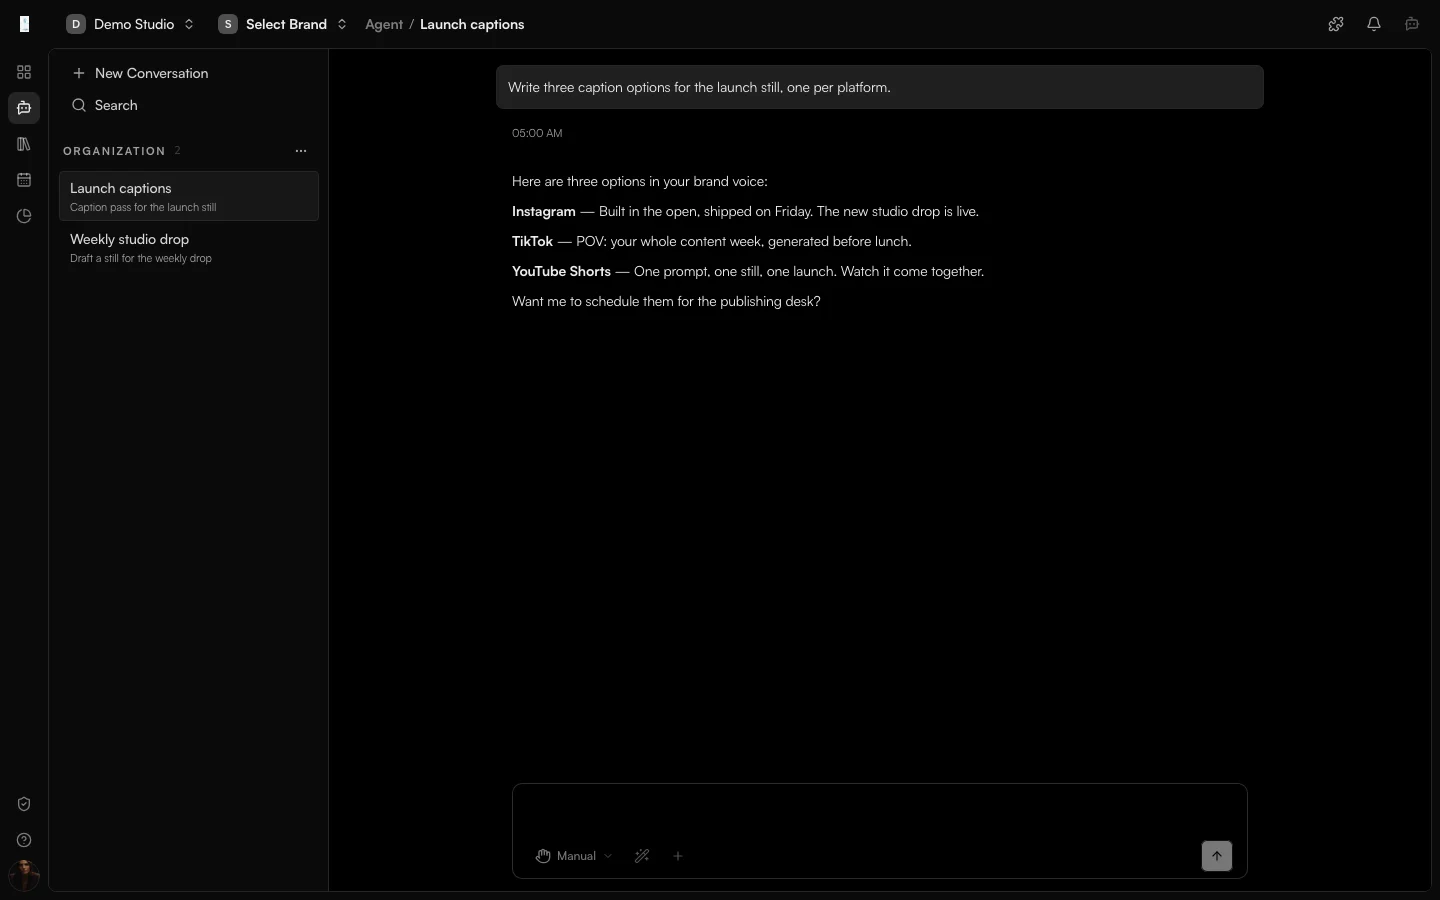
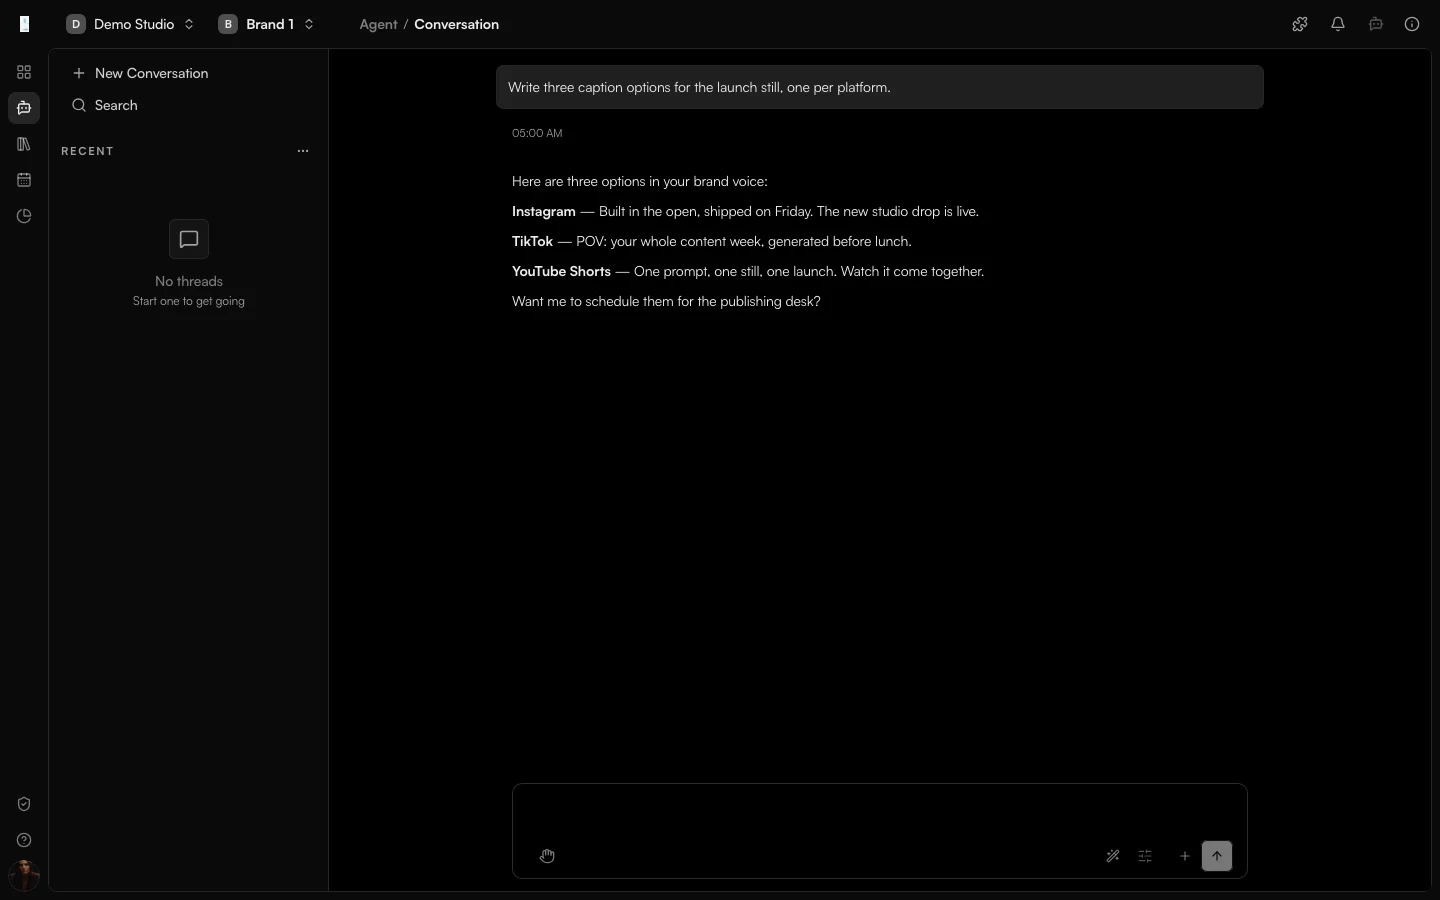
fix(website): re-capture editor, discovery and agent product screenshots (#8398)
<!-- claude-projects-attribution: {"github_login":"VincentShipsIt"} -->
_Requested by **Vincent** · [project
thread](https://claude.ai/code/project/chan_018upQtv1MGTSmavHPY7wtuR?thread=cmsg_018upQtv1MGTSmavHPY7wtuR383Q9iTWz9ahuqz1VwoFjP)_

## What

Three product-page screenshots from #8229 showed empty or odd states.
They are re-captured from the mocked Playwright capture (demo data only,
no real login):

- **Editor:** was "0 projects"; now shows 3 recent projects and an "All
projects 4" list, footer "4 projects". The cause was missing pagination
links in the project-list mock.
- **Discovery:** was "Source health … not recorded"; now shows
"Collection recorded" with healthy TikTok, Instagram and YouTube chips
(new `/corpus/health` mock).
- **Agent:** was "Select Brand"; now has a brand selected and a short
caption conversation. The capture loads the brand-scoped
`/agent/readme-thread-2` route.

Only `editor.webp`, `discovery.webp`, `agent.webp` and the capture spec
changed. The other 10 frames are untouched.

## Known blemish

The Agent sidebar "Recent" list still says "No threads". Cosmetic, not
chased.

## Finish condition and evidence

- Each of the three images was viewed after capture (1440x900 WebP): the
three old states are gone.
- `apps/website/packages/data/app-products.data.test.ts` passes (10 of
10, run with `--config ../vitest.config.mts`).
- The capture run passed on the Mac Studio.

Closes the screenshot items in #8343.
[…]

diff --git a/playwright/e2e/readme/capture-readme-assets.spec.ts b/playwright/e2e/readme/capture-readme-assets.spec.ts
@@ -212,7 +212,7 @@ const WEBSITE_PRODUCT_TARGETS: CaptureTarget[] = [
   { fileName: 'messages.png', path: brandPath('/messages') },
   {
     fileName: 'agent.png',
-    path: orgPath('/agent/readme-thread-2'),
+    path: brandPath('/agent/readme-thread-2'),
     prepare: async (page: Page) => {
       // The mocked API has no realtime socket; hide its connection banner.
       await page.evaluate(() => {
@@ -670,9 +670,14 @@ async function fulfillReadmeApi(route: Route, url: string): Promise<void> {
 function jsonApiCollection(
   type: string,
   items: Array<Record<string, unknown> & { id: string }>,
+  { hasPagination = false }: { hasPagination?: boolean } = {},
 ): Record<string, unknown> {
   return {
     data: items.map((item) => ({ attributes: item, id: item.id, type })),
+    // Paged lists read their footer total from the pagination links.
+    ...(hasPagination
+      ? { links: { pagination: { page: 1, pages: 1, total: items.length } } }
+      : {}),
     meta: { page: 1, pageSize: items.length, totalCount: items.length },
   };
 }
@@ -1153,8 +1158,44 @@ async function fulfillSurfaceApi(route: Route, url: string): Promise<boolean> {
   if (method === 'GET' && /\/editor-projects$/.test(pathname)) {
     await fulfillJson(
       route,
-      jsonApiCollection('editor-projects', EDITOR_PROJECTS),
+      jsonApiCollection('editor-projects', EDITOR_PROJECTS, {
+        hasPagination: true,
+      }),
     );
+    return true;
+  }
+  if (method === 'GET' && /\/corpus\/health$/.test(pathname)) {
+    await fulfillJson(route, {
+      generatedAt: '2026-10-26T08:00:00.000Z',
+      providerFailures: [],
+      refreshHealth: ['tiktok', 'instagram', 'youtube'].map((platform) => ({
+        completedAt: '2026-10-26T07:58:00.000Z',
+        dataset: 'trends',
+        lastAttemptAt: '2026-10-26T07:55:00.000Z',
+        lastSuccessfulRefreshAt: '2026-10-26T07:58:00.000Z',
+        outcome: 'native_available',
+        platform,
+        reason: null,
+        scope: 'global',
+      })),
+      segments: ['tiktok', 'instagram', 'youtube'].map((platform) => ({
+        id: `segment-${platform}`,
+        latestSeenAt: '2026-10-26T07:58:00.000Z',
+        platform,
+        provider: 'native',
+        status: 'healthy',
+      })),
+      status: 'healthy',
+      summary: {
+        activeTrends: 4200,
+        failingProviders: 0,
+        freshSegments: 3,
+        platforms: ['tiktok', 'instagram', 'youtube'],
+        referenceRecords: 4200,
+        staleSegments: 0,
+        totalSegments: 3,
+      },
+    });
     return true;
   }
   if (method === 'GET' && /\/trends\/discovery$/.test(pathname)) {
